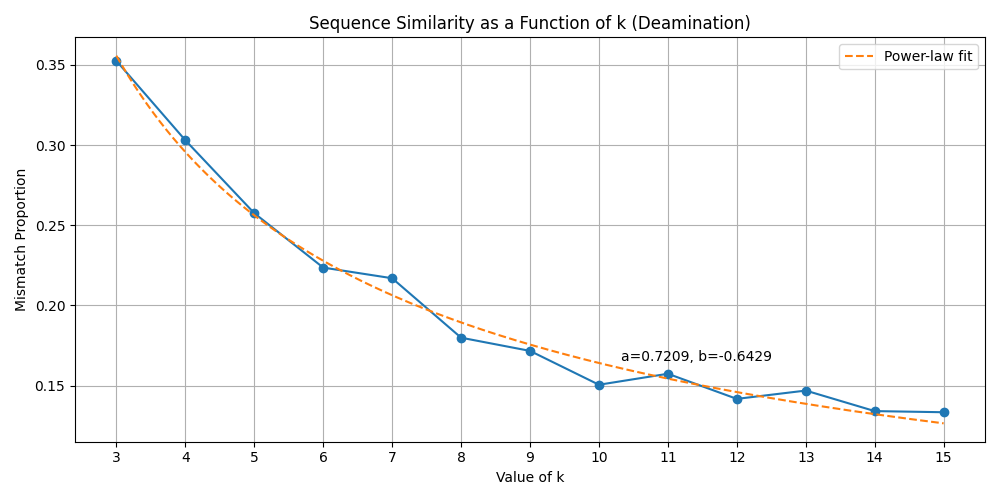
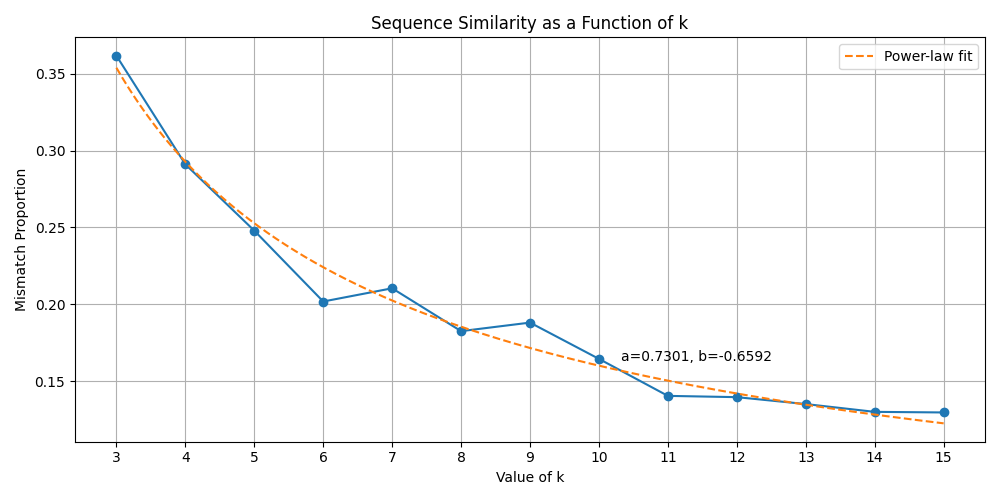
Update

diff --git a/simulations/spurious/main.py b/simulations/spurious/main.py
@@ -154,7 +154,7 @@ plt.plot(k_values, average_mismatches, marker='o', linestyle='-')
 plt.xticks(k_values)
 plt.xlabel('Value of k')
 plt.ylabel('Mismatch Proportion')
-plt.title('Sequence Similarity as a Function of k (Deamination)')
+plt.title('Sequence Similarity as a Function of k')
 plt.grid(True)
 
 # Curve fitting for the plot
